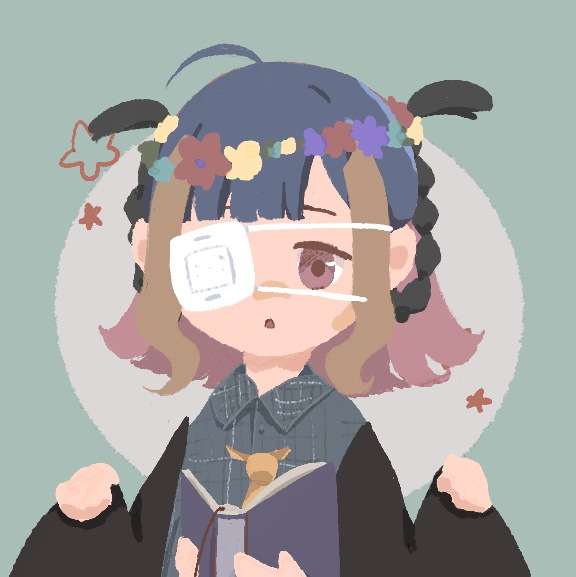
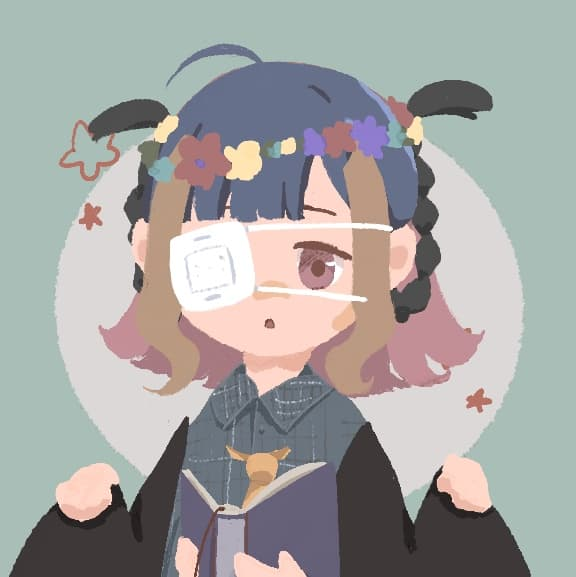
refactor(public/): delete unused image-file, add compressed .jpg image

Changed region(s): [[0.1562, 0.8735, 0.1875, 0.9047]]

diff --git a/src/components/layouts/main.js b/src/components/layouts/main.js
@@ -22,7 +22,7 @@ const divStyle = css`
 const variants = {
   init: { opacity: 0, x: 0, y: 20 },
   enter: { opacity: 1, x: 0, y: 0 },
-  exit: { opacity: 0, x: -0, y: 20 },
+  exit: { opacity: 0, x: 0, y: 20 },
 };
 
 const Main = ({ children }) => {
@@ -43,7 +43,7 @@ const Main = ({ children }) => {
           animate='enter'
           exit='exit'
           variants={variants}
-          transition={{ duration: 0.9, type: 'easeInOut' }}
+          transition={{ duration: 1.0, type: 'easeInOut' }}
           style={{ position: 'relative' }}
         >
           {children}

diff --git a/src/components/worksCard.js b/src/components/worksCard.js
@@ -53,14 +53,14 @@ const worksData = [
   {
     id: 0,
     title: 'にょわクジ2024',
-    image: '/nyowa-roullete.png',
+    image: '/nyowa-roullete.jpg',
     href: 'https://nyowa-rou-2024.netlify.app/',
     desc: '新年を占うためのおみくじ🎍',
   },
   {
     id: 1,
     title: 'バリデーション・モック',
-    image: '/password-mock.png',
+    image: '/password-mock.jpg',
     href: 'https://password-mock.netlify.app/',
     desc: 'パス入力欄のモック🔒',
   },
